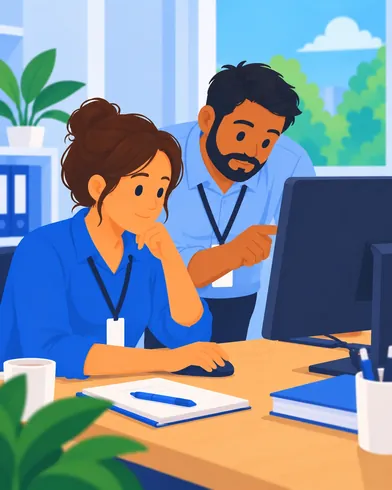
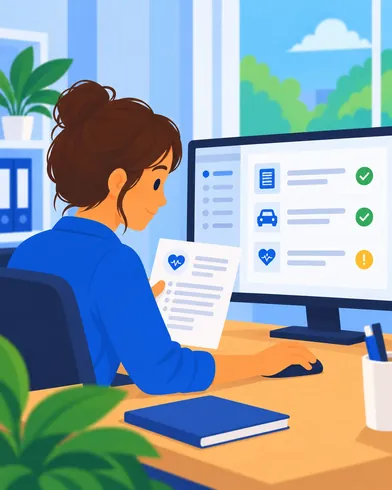
Add illustrations for NewCo steps 03, 10, 14 and 15
Every step on both maps now has an image. Three NewCo images and six
CX images are still stand-ins, listed in the brief.

Claude-Session: https://claude.ai/code/session_01YSrrk3hHF3SzBBKSgw8U5r

diff --git a/drivers-medical/service-vision/whole-service-map.html b/drivers-medical/service-vision/whole-service-map.html
@@ -348,7 +348,7 @@ a{color:#1d70b8}a:hover{color:#003078}
 <div style="height: 4px; margin-top: 10px; margin-bottom: 12px; background: #6f777b;"></div>
 <div style="display: flex; gap: 12px;"><div style="width: 196px; flex-shrink: 0; display: flex; flex-direction: column;">
 <div style="height: 52px; margin-bottom: 10px; display: flex; flex-direction: column; gap: 4px;"><div style="padding: 5px 6px; font-size: 11px; font-weight: 700; text-align: center; color: #0b0c0c; background: #f3f2f1; border: 1px solid #b1b4b6;">GOV.UK</div></div>
-<div style="height: 245px; margin-bottom: 10px; box-sizing: border-box; border: 1px dashed #b1b4b6; background: #f8f8f7; display: flex; align-items: center; justify-content: center; font-size: 11px; color: #505a5f;">[Illustration]</div>
+<img data-illus="newco-03" src="illustrations/newco-03.webp" alt="" width="196" height="245" style="display: block; width: 196px; height: 245px; margin-bottom: 10px; object-fit: cover;">
 <div style="height: 50px; margin-bottom: 8px; font-size: 12px; font-style: italic; line-height: 1.4; color: #00703c; text-align: center;">“Customers should know what we need before we ask for it.”</div>
 <div style="height: 56px; margin-bottom: 10px; box-sizing: border-box; padding: 8px; background: #f3f2f1; display: flex; align-items: center; justify-content: center; text-align: center; font-size: 14px; font-weight: 700; color: #0b0c0c;">Set expectations</div>
 <div style="height: 460px; display: flex; flex-direction: column; gap: 10px;"><div style="border: 1px solid #b1b4b6; background: #ffffff;"><div style="padding: 5px 8px; font-size: 12px; font-weight: 700; color: #ffffff; background: #6f777b;">Guidance on the process</div><div style="padding: 7px 8px 9px; font-size: 12px; line-height: 1.4; color: #0b0c0c;">What happens, the part customers and third parties play, and how long it takes.</div><div style="padding: 6px 8px 7px; border-top: 1px solid #e5e6e7; font-size: 10px; line-height: 1.3; color: #505a5f;"><span style="font-weight: 700;">Tests:</span> Communications and guidance</div></div><div style="border: 1px solid #b1b4b6; background: #ffffff;"><div style="padding: 5px 8px; font-size: 12px; font-weight: 700; color: #ffffff; background: #6f777b;">What you&#x27;ll be asked for</div><div style="padding: 7px 8px 9px; font-size: 12px; line-height: 1.4; color: #0b0c0c;">Evidence, appointments and consent, explained before anyone notifies.</div><div style="padding: 6px 8px 7px; border-top: 1px solid #e5e6e7; font-size: 10px; line-height: 1.3; color: #505a5f;"><span style="font-weight: 700;">Tests:</span> Communications and guidance</div></div></div>
@@ -412,7 +412,7 @@ a{color:#1d70b8}a:hover{color:#003078}
 <div style="height: 460px; display: flex; flex-direction: column; gap: 10px;"><div style="border: 1px solid #b1b4b6; background: #ffffff;"><div style="padding: 5px 8px; font-size: 12px; font-weight: 700; color: #ffffff; background: #1d3d6b;">Classify and route</div><div style="padding: 7px 8px 9px; font-size: 12px; line-height: 1.4; color: #0b0c0c;">Case classified by risk archetype and routed to the team that owns the customer.</div><div style="padding: 6px 8px 7px; border-top: 1px solid #e5e6e7; font-size: 10px; line-height: 1.3; color: #505a5f;"><span style="font-weight: 700;">Tests:</span> Ownership of a customer group</div></div><div style="border: 1px solid #b1b4b6; background: #ffffff;"><div style="padding: 5px 8px; font-size: 12px; font-weight: 700; color: #ffffff; background: #1d3d6b;">Pull out what matters<span style="margin-left: 6px; padding: 0 4px; font-size: 10px; font-weight: 700; color: #6f4a00; background: #fff4d6; border: 1px solid #d9a200; border-radius: 3px;">tbc</span></div><div style="padding: 7px 8px 9px; font-size: 12px; line-height: 1.4; color: #0b0c0c;">AI reads forms and evidence and surfaces what the agent needs.</div><div style="padding: 6px 8px 7px; border-top: 1px solid #e5e6e7; font-size: 10px; line-height: 1.3; color: #6f4a00; background: #fff4d6;"><span style="font-weight: 700;">No hypothesis yet</span></div></div><div style="border: 1px solid #b1b4b6; background: #ffffff;"><div style="padding: 5px 8px; font-size: 12px; font-weight: 700; color: #ffffff; background: #1d3d6b;">One view of the work</div><div style="padding: 7px 8px 9px; font-size: 12px; line-height: 1.4; color: #0b0c0c;">The team sees its own queue and its own customers in one place.</div><div style="padding: 6px 8px 7px; border-top: 1px solid #e5e6e7; font-size: 10px; line-height: 1.3; color: #505a5f;"><span style="font-weight: 700;">Tests:</span> Ownership of a customer group</div></div></div>
 </div><div style="width: 196px; flex-shrink: 0; display: flex; flex-direction: column;">
 <div style="height: 52px; margin-bottom: 10px; display: flex; flex-direction: column; gap: 4px;"><div style="padding: 5px 6px; font-size: 11px; font-weight: 700; text-align: center; color: #0b0c0c; background: #f3f2f1; border: 1px solid #b1b4b6;">Payments</div></div>
-<div style="height: 245px; margin-bottom: 10px; box-sizing: border-box; border: 1px dashed #b1b4b6; background: #f8f8f7; display: flex; align-items: center; justify-content: center; font-size: 11px; color: #505a5f;">[Illustration]</div>
+<img data-illus="newco-10" src="illustrations/newco-10.webp" alt="" width="196" height="245" style="display: block; width: 196px; height: 245px; margin-bottom: 10px; object-fit: cover;">
 <div style="height: 50px; margin-bottom: 8px; font-size: 12px; font-style: italic; line-height: 1.4; color: #00703c; text-align: center;">“I want healthcare professionals paid without paper in the post.”</div>
 <div style="height: 56px; margin-bottom: 10px; box-sizing: border-box; padding: 8px; background: #f3f2f1; display: flex; align-items: center; justify-content: center; text-align: center; font-size: 14px; font-weight: 700; color: #0b0c0c;">Payments</div>
 <div style="height: 460px; display: flex; flex-direction: column; gap: 10px;"><div style="border: 1px solid #b1b4b6; background: #ffffff;"><div style="padding: 5px 8px; font-size: 12px; font-weight: 700; color: #ffffff; background: #1d3d6b;">Pay healthcare professionals<span style="margin-left: 6px; padding: 0 4px; font-size: 10px; font-weight: 700; color: #6f4a00; background: #fff4d6; border: 1px solid #d9a200; border-radius: 3px;">tbc</span></div><div style="padding: 7px 8px 9px; font-size: 12px; line-height: 1.4; color: #0b0c0c;">Digital invoicing replaces paper sent in the post.</div><div style="padding: 6px 8px 7px; border-top: 1px solid #e5e6e7; font-size: 10px; line-height: 1.3; color: #6f4a00; background: #fff4d6;"><span style="font-weight: 700;">No hypothesis yet</span></div></div></div>

diff --git a/drivers-medical/service-vision/illustrations/BRIEF.md b/drivers-medical/service-vision/illustrations/BRIEF.md
@@ -13,7 +13,7 @@ The step illustrations for `../whole-service-map.html`. One image per step, name
 
 ## Still needed
 
-Some of these steps show a reused image as a stand-in until their own arrives: cx-17, cx-19, cx-21, cx-22, cx-23, cx-24, newco-05, newco-09, newco-15 and newco-16. The rest are still empty.
+Some of these steps show a reused image as a stand-in until their own arrives: cx-17, cx-19, cx-21, cx-22, cx-23, cx-24, newco-05, newco-09 and newco-16.
 
 ### CX map (customer)
 
@@ -26,9 +26,6 @@ Some of these steps show a reused image as a stand-in until their own arrives: c
 
 ### NewCo map (operations)
 
-- **newco-03** Set expectations: a printed leaflet and a phone showing a simple step-by-step guide, side by side on a table.
 - **newco-05** Customer notifies or renews: a screen where cards arrive from a phone, a laptop and an envelope into one queue.
 - **newco-09** AI and tech: a computer screen sorting case cards into tidy groups.
-- **newco-10** Payments: a doctor's receptionist seeing a payment arrive on screen, paper invoices set aside.
-- **newco-15** Issue the decision: the agent on the phone, explaining a decision, a letter on her desk.
 - **newco-16** Proactive: outbound: the agent at her computer sending updates that fly out to several phones.
